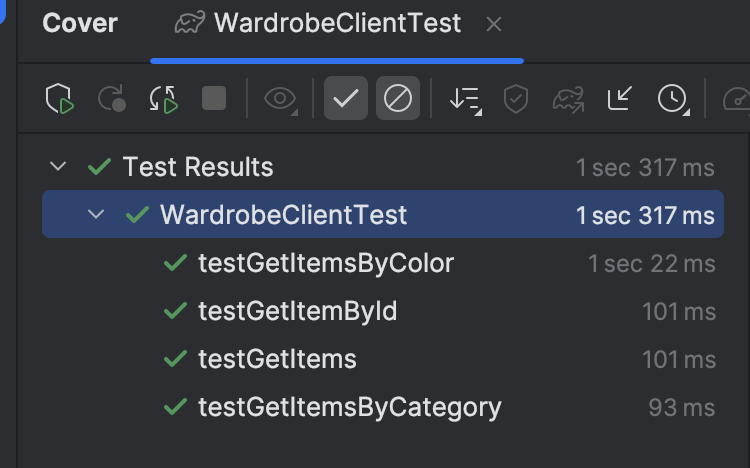
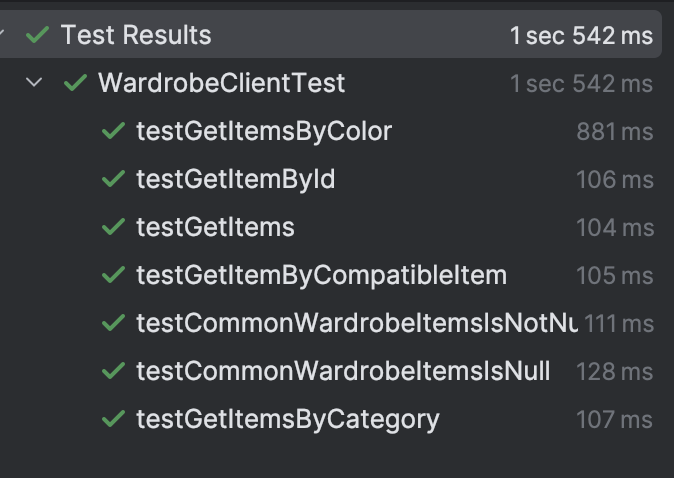
fix: coverage tests

diff --git a/sample/composeApp/src/commonMain/kotlin/sample/app/App.kt b/sample/composeApp/src/commonMain/kotlin/sample/app/App.kt
@@ -1,6 +1,8 @@
 package sample.app
 
+import androidx.compose.foundation.background
 import androidx.compose.foundation.layout.Arrangement
+import androidx.compose.foundation.layout.Box
 import androidx.compose.foundation.layout.Column
 import androidx.compose.foundation.layout.Row
 import androidx.compose.foundation.layout.fillMaxHeight
@@ -29,74 +31,80 @@ fun App() {
         var categoryItemsText by remember { mutableStateOf("") }
         var colorItemsText by remember { mutableStateOf("") }
 
-        Column(
-            modifier = Modifier
-                .safeContentPadding()
-                .fillMaxSize()
-                .width(700.dp),
-
-            horizontalAlignment = Alignment.CenterHorizontally,
+        Box(
+            modifier = Modifier.fillMaxSize().background(MaterialTheme.colorScheme.background),
         ) {
-            Row(
-                modifier = Modifier,//.fillMaxHeight(),
-                horizontalArrangement = Arrangement.Center,
-            ){
-                OutlinedTextField(
-                    value = categoryItemsText,
-                    onValueChange = { categoryItemsText = it },
-                    label = { Text("category")
-                    }
-                )
-            }
-
-            Row(
-                modifier = Modifier,//.fillMaxHeight(),
-                horizontalArrangement = Arrangement.Center,
-            ){
-                OutlinedTextField(
-                    value = colorItemsText,
-                    onValueChange = { colorItemsText = it },
-                    label = {
-                        Text("color")
-                    }
-                )
-            }
-
-            Row(
-                modifier = Modifier,//.fillMaxHeight(),
-                horizontalArrangement = Arrangement.Center,
-            ) {
-                Button(onClick = {
-                    wardrobeItemsText = "Loading..."
-                    coroutineScope.launch {
-                        wardrobeItemsText = getUiWardrobeItems(colorItemsText,categoryItemsText)
-                    }
-                }) {
-                    Text("Get wardrobe items!")
-                }
-                Button(onClick = {
-                    wardrobeItemsText = ""
-                    categoryItemsText = ""
-                    colorItemsText = ""
-
-                }) {
-                    Text("Clear")
-                }
-            }
-
-            TextField(
-                value = wardrobeItemsText,
-                onValueChange = { wardrobeItemsText = it },
-                label = { Text("") },
+            Column(
                 modifier = Modifier
-                    .fillMaxHeight()
-            )
+                    .safeContentPadding()
+                    .fillMaxSize()
+                    .width(700.dp),
+
+                horizontalAlignment = Alignment.CenterHorizontally,
+            ) {
+                Row(
+                    modifier = Modifier,//.fillMaxHeight(),
+                    horizontalArrangement = Arrangement.Center,
+                ) {
+                    OutlinedTextField(
+                        value = categoryItemsText,
+                        onValueChange = { categoryItemsText = it },
+                        label = {
+                            Text("category")
+                        }
+                    )
+                }
+
+                Row(
+                    modifier = Modifier,//.fillMaxHeight(),
+                    horizontalArrangement = Arrangement.Center,
+                ) {
+                    OutlinedTextField(
+                        value = colorItemsText,
+                        onValueChange = { colorItemsText = it },
+                        label = {
+                            Text("color")
+                        }
+                    )
+                }
+
+                Row(
+                    modifier = Modifier,//.fillMaxHeight(),
+                    horizontalArrangement = Arrangement.Center,
+                ) {
+                    Button(onClick = {
+                        wardrobeItemsText = "Loading..."
+                        coroutineScope.launch {
+                            wardrobeItemsText = getUiWardrobeItems(colorItemsText, categoryItemsText)
+                        }
+                    }) {
+                        Text("Get wardrobe items!")
+                    }
+                    Button(onClick = {
+                        wardrobeItemsText = ""
+                        categoryItemsText = ""
+                        colorItemsText = ""
+
+                    }) {
+                        Text("Clear")
+                    }
+                }
+
+                TextField(
+                    value = wardrobeItemsText,
+                    onValueChange = { wardrobeItemsText = it },
+                    label = { Text("") },
+                    modifier = Modifier
+                        .fillMaxHeight()
+                )
+            }
         }
     }
+
 }
 
 private suspend fun getUiWardrobeItems(color: String?, category: String?): String {
-    val wardrobeItems : List<WardrobeItem> = getWardrobeItems(color, category)
+    val wardrobeItems: List<WardrobeItem> = getWardrobeItems(color, category)
 
     // alle items:
     //val itemsString : String = wardrobeItems.joinToString("\n") { it.name }
@@ -107,11 +115,11 @@ private suspend fun getUiWardrobeItems(color: String?, category: String?): Strin
 
     // alle items mit Index und kompatiblen Teilen:
 
-    val idxRange = (0 .. wardrobeItems.size-1)
+    val idxRange = (0..wardrobeItems.size - 1)
     val itemsString = idxRange.joinToString("\n") {
         wardrobeItems[it].toString()
     }
 
     println(itemsString)
-    return(itemsString)
+    return (itemsString)
 }

diff --git a/shared/src/commonTest/kotlin/com/rodi/bonprix/WardrobeClientTest.kt b/shared/src/commonTest/kotlin/com/rodi/bonprix/WardrobeClientTest.kt
@@ -4,6 +4,7 @@ import kotlinx.coroutines.test.runTest
 import kotlin.test.Test
 import kotlin.test.assertContentEquals
 import kotlin.test.assertEquals
+import kotlin.test.assertNotEquals
 import kotlin.test.assertTrue
 
 class WardrobeClientTest {
@@ -66,5 +67,19 @@ class WardrobeClientTest {
         assertTrue { items.isNotEmpty() }
         val itemWithoutSpecifiedCompItem : WardrobeItem? = items.find { !it.compatibleWith.contains(Constants.COMPATIBLE_ITEM) }
         assertEquals(null, itemWithoutSpecifiedCompItem)
+    }
+
+    @Test
+    fun testCommonWardrobeItemsIsNotNull() = runTest {
+        val wardrobeClient = WardrobeClient()
+        val getItems = wardrobeClient.commonGetWardrobeItems(Constants.COLOR, Constants.COMPATIBLE_ITEM)
+        assertTrue { getItems.isNotEmpty() }
+    }
+
+    @Test
+    fun testCommonWardrobeItemsIsNull() = runTest {
+        val wardrobeClient = WardrobeClient()
+        val getItems = wardrobeClient.commonGetWardrobeItems(null, "nonExistingCategory")
+        assertTrue { getItems.isEmpty() }
     }
 }
